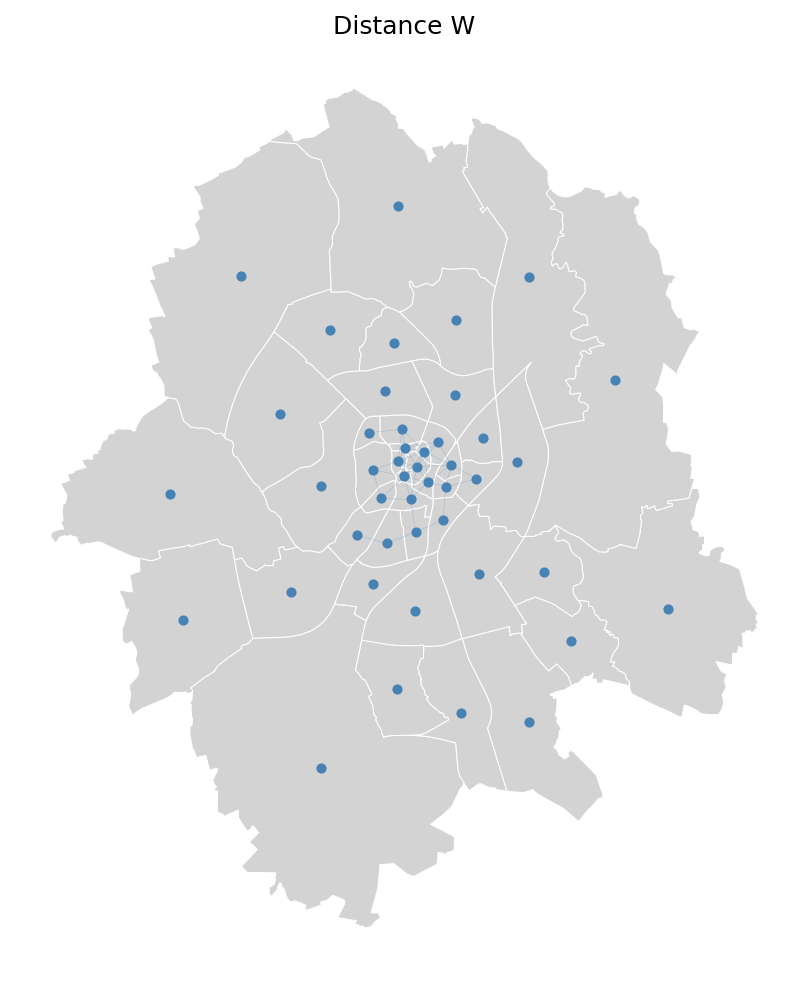
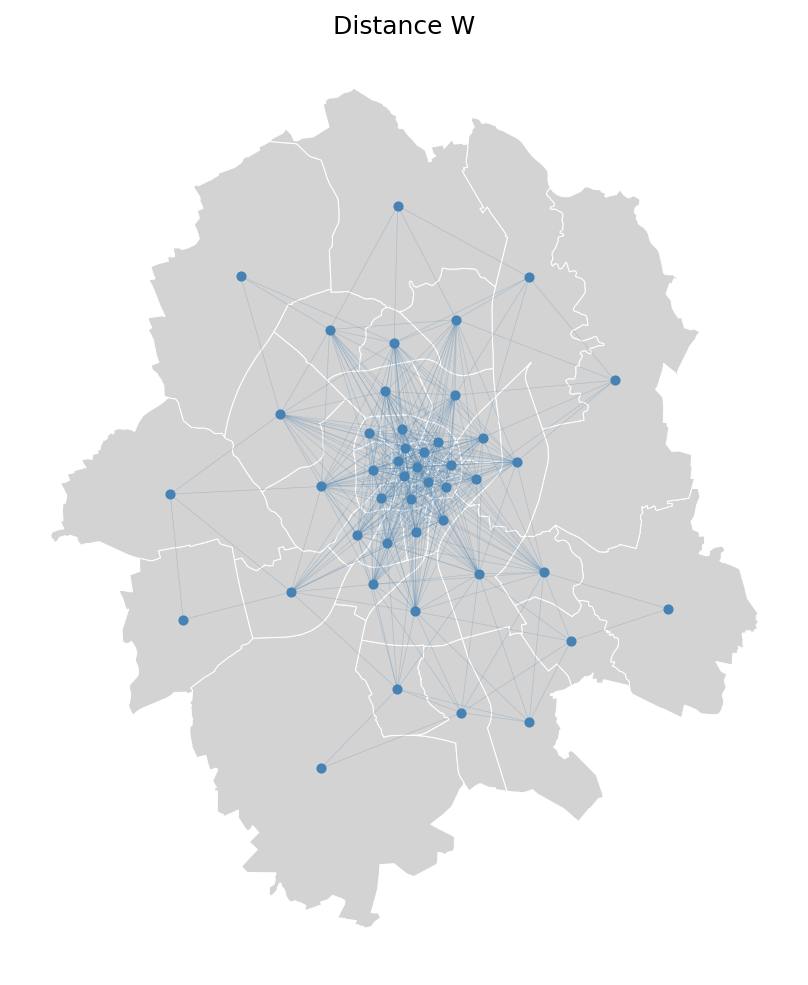
Small fixes

Changed region(s): [[0.3403, 0.335, 0.6807, 0.6396], [0.4022, 0.335, 0.4332, 0.3655], [0.3713, 0.5787, 0.4022, 0.6091]]

diff --git a/src/swm/weights/distance.py b/src/swm/weights/distance.py
@@ -4,18 +4,23 @@ import libpysal
 
 logger = logging.getLogger(__name__)
 
+
 def create_distance_swm(geodf, threshold=1000, inverse=False):
-    
-    logger.info(f"--- Creating DistanceBand Matrix (Threshold: {threshold}m) ----")    
+
+    logger.info(f"--- Creating DistanceBand Matrix (Threshold: {threshold}m) ----")
     alpha = 1.0
-    if inverse==True: alpha = -1.0
-    distance_swm = DistanceBand.from_dataframe(geodf, threshold=threshold, alpha=alpha, use_index=True)
-    
+    if inverse is True:
+        alpha = -1.0
+    distance_swm = DistanceBand.from_dataframe(
+        geodf, threshold=threshold, alpha=alpha, use_index=True
+    )
+
     return distance_swm
 
+
 def create_knn_swm(geodf, k=4):
-    
+
     logger.info("--- Creating KNN Matrix ----")
     knn_swm = KNN.from_dataframe(geodf, k=k, use_index=True)
-    
+
     return knn_swm
